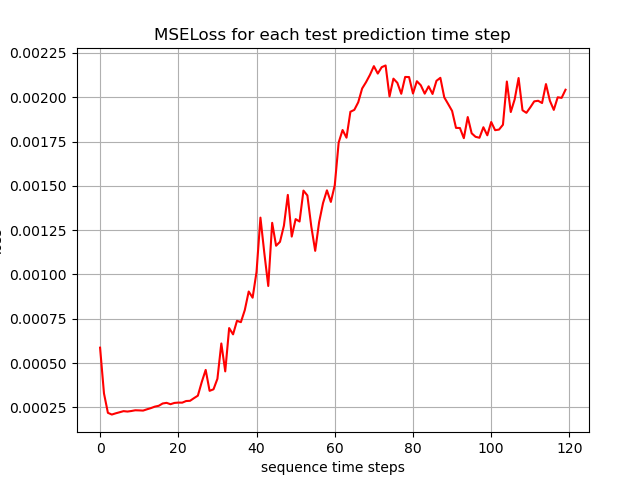
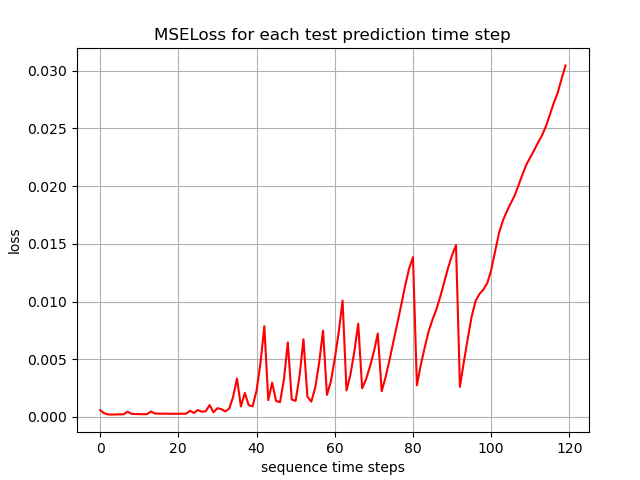
Add: test with dropouts, testing plots

diff --git a/CoreLSTM/test_core_lstm.py b/CoreLSTM/test_core_lstm.py
@@ -4,7 +4,8 @@ from torch import nn
 import numpy as np
 import matplotlib.pyplot as plt
 from numpy import random
-from torch.utils.data import DataLoader, random_split
+from torch.utils.data import DataLoader
+from torch.nn import PairwiseDistance
 
 from tqdm import tqdm
 import sys
@@ -33,6 +34,8 @@ class LSTM_Tester():
         hidden_num,
         layer_norm, 
         timesteps,
+        teacher_forcing_steps,
+        teacher_forcing_dropouts,
         num_dim, 
         num_feat,
         num_independent_feat,
@@ -51,6 +54,11 @@ class LSTM_Tester():
             self.num_feature_types = self.num_dim // 2
         
         self.timesteps = timesteps - 1 # input und label um einen step versetzt
+        self.teacher_forcing_steps = teacher_forcing_steps
+        self.teacher_forcing_dropouts = teacher_forcing_dropouts
+        self.dropout_chance = 0.0
+        self.random_thresholds = random.random_sample((self.teacher_forcing_steps,))
+        
         self.num_obj = num_feat
         self.num_interactions = num_interactions
         self.num_output = num_output
@@ -77,14 +85,70 @@ class LSTM_Tester():
         self.model.eval()
 
 
-    def forward_pass(self, seq, interaction, state, outs, j):
+    def reset_dropout_chance(self):
+        self.dropout_chance = 0.0
+
+
+    def forward_pass1(self, seq, interaction, state, outs, j):
             
         _input = seq[j, :, :].to(self.device)
         out, state = self.model.forward(input_seq=_input, interaction_label=interaction, state=state)
         outs.append(out)
         
         return out, state, outs
+    
+    def forward_pass(self, seq, interaction, state, outs, j):
+            
+        if self.teacher_forcing_dropouts and j < self.teacher_forcing_steps:
+            not_a_dropout = self.random_thresholds[j] > self.dropout_chance
+            self.dropout_chance += 1 / self.teacher_forcing_steps
+
+        if (
+            j < self.teacher_forcing_steps           # -> Ignore dropout functionality
+                and not self.teacher_forcing_dropouts  
+            or j < self.teacher_forcing_steps        # -> Use tf until tf_steps is reached
+                and not_a_dropout                    # and the current time step is not a dropout
+        ):
+            _input = seq[j, :, :]
+            output, state = self.model.forward(_input, interaction, state)
+        else:
+            # concat motor forces and distances to previous output
+            output = self.closed_loop_input(seq, j, outs[-1])
+            # Closed loop lstm forward pass without teacherforcing
+            output, state = self.model.forward(output, interaction, state)
+                    
+        outs.append(output)
         
+        return output, state, outs
+        
+        
+    def closed_loop_input(self, seq, j, output):
+        distances = self.calculate_new_distances(output)
+        motor_column = self.num_dim*self.num_obj
+        motor_force = seq[j, :, motor_column:motor_column+2].squeeze()
+        return torch.cat([output, motor_force, distances], dim=1)
+
+
+    def calculate_new_distances(self, out: torch.Tensor):
+        # shape out: [seq_len=1, batch_size, features]
+        t = out.squeeze()
+        # a1, a2, b = t[:, [0,1]], t[:, [6,7]], t[:, [12,13]]
+        a1, a2, b = (
+            t[:, [2*i + i*(self.num_dim-2), 2*(i+1) + i*(self.num_dim-2)]] 
+            for i in range(self.num_obj)
+        )
+        
+        # abstrahieren für n_obj!=3 mit [a1, a2, b, ...] als list und:
+        # combs = it.combinations(tensors, 2)
+        # dann loop über combs und dist anwenden
+        
+        dist = PairwiseDistance(p=2)
+        dis_a1_a2 = dist(a1, a2)
+        dis_a1_b  = dist(a1, b)
+        dis_b_a2  = dist(b, a2)
+        
+        return torch.stack([dis_a1_a2, dis_a1_b, dis_b_a2], dim = 1) # shape (batchsize x 3)
+    
         
     def evaluate(self, dataloader):
         
@@ -99,6 +163,7 @@ class LSTM_Tester():
         
                 state = self.model.init_hidden(batch_size=batch_size)
                 outs = []
+                self.reset_dropout_chance()
 
                 for j in range(seq_len):
                     _, state, outs = self.forward_pass(seq, interaction, state, outs, j)
@@ -128,6 +193,7 @@ class LSTM_Tester():
                 seq_len, batch_size, num_features = seq.size()
                 state = self.model.init_hidden(batch_size=batch_size)
                 outs = []
+                self.reset_dropout_chance()
                 
                 batch_loss_each_step = np.zeros(self.timesteps)
                 batch_loss_each_step_objects = np.zeros((self.num_obj, self.timesteps))
@@ -218,6 +284,7 @@ class LSTM_Tester():
         
         state = self.model.init_hidden(batch_size=batch_size)
         outs = []
+        self.reset_dropout_chance()
         
         for j in range(seq_len):
             _, state, outs = self.forward_pass(seq, interaction, state, outs, j)

diff --git a/CoreLSTM/test_interactions.py b/CoreLSTM/test_interactions.py
@@ -6,7 +6,7 @@ from torch.utils.data import DataLoader, random_split
 import sys
 pc_dir = "C:\\Users\\TimoLuebbing\\Desktop\\BindingInteractionSequences"
 laptop_dir = "C:\\Users\\timol\\Desktop\\BindingInteractionSequences"
-sys.path.append(pc_dir)      
+sys.path.append(laptop_dir)      
 # Before run: replace ... with current directory path
 
 from Data_Preparation.interaction_dataset import TimeSeriesDataset
@@ -58,6 +58,9 @@ def main(render=True):
     n_independent = 5 # 2 motor + 3 distances 
     n_interactions = len(interactions)
     
+    teacher_forcing_steps = 80
+    teacher_forcing_dropouts = True
+    
     current_best = 'core_lstm_6_3_5_360_MSELoss()_0.0001_0_180_2000_lnorm_tfs200'
     current_best_dropout = 'core_lstm_6_3_5_360_MSELoss()_0.0001_0_180_2000_lnorm_tfs200_tfd'
     current_best_dropout_wd = 'core_lstm_6_3_5_360_MSELoss()_0.0001_0.01_180_2000_lnorm_tfs200_tfd'
@@ -68,10 +71,11 @@ def main(render=True):
     
     tuning0 = 'core_lstm_4_3_5_360_0.001_0.001_HuberLoss()_240_1500_tfs120_tfd'
     tuning1 = 'core_lstm_4_3_5_360_0.0005_0.01_HuberLoss()_240_1500_tfs100_tfd'
+    tuning2 = 'core_lstm_4_3_5_360_0.0005_0.05_HuberLoss()_240_3000_tfs80_tfd'
 
     tuning_train = 'core_lstm_4_3_5_360_HuberLoss()_0.0005_0.01_240_3000_tfs120_tfd_nf_ts121'
 
-    model_name = tuning1
+    model_name = tuning2
     model_save_path = f'CoreLSTM/models/{model_name}.pt'
     model_save_path = f'CoreLSTM/models/tuning/{model_name}.pt'
     
@@ -85,6 +89,8 @@ def main(render=True):
         hidden_num=hidden_num,
         layer_norm=layer_norm,
         timesteps=timesteps,
+        teacher_forcing_steps=teacher_forcing_steps,
+        teacher_forcing_dropouts=teacher_forcing_dropouts,
         num_dim=n_dim,
         num_feat=n_features,
         num_independent_feat=n_independent,
@@ -105,9 +111,9 @@ def main(render=True):
     print(np.sum(obj_losses, axis=None))
     print(np.sum(type_losses, axis=None))
     
-    test_loss_path = f"CoreLSTM/testing_predictions/test_loss/{model_name}"
-    obj_loss_path = f"CoreLSTM/testing_predictions/test_loss/{model_name}"
-    type_loss_path = f"CoreLSTM/testing_predictions/test_loss/{model_name}"
+    test_loss_path = f"CoreLSTM/testing_predictions/test_loss/{model_name}_false_labels"
+    obj_loss_path = f"CoreLSTM/testing_predictions/test_loss/{model_name}_false_labels"
+    type_loss_path = f"CoreLSTM/testing_predictions/test_loss/{model_name}_false_labels"
     tester.plot_losses_steps(losses, test_loss_path)
     tester.plot_losses_objects(obj_losses, obj_loss_path)
     tester.plot_losses_types(type_losses, type_loss_path)

diff --git a/CoreLSTM/train_core_lstm.py b/CoreLSTM/train_core_lstm.py
@@ -68,6 +68,9 @@ class LSTM_Trainer():
         self.loss_function = loss_function
         self.teacher_forcing_steps = teacher_forcing_steps
         self.teacher_forcing_dropouts = teacher_forcing_dropouts
+        self.dropout_chance = 0.0
+        self.random_thresholds = random.random_sample((teacher_forcing_steps,))
+        
                 
         self.optimizer = AdamW(
             params=self.model.parameters(),
@@ -290,14 +293,13 @@ class LSTM_Trainer():
 
         state = self.model.init_hidden(batch_size=batch_size)
         outs = []
-        random_values = random.random_sample((seq_len,))
-        dropout_chance = 0.0
+        self.reset_dropout_chance()
 
         for j in range(seq_len):
             
             if self.teacher_forcing_dropouts:
-                not_a_dropout = random_values[j] > dropout_chance
-                dropout_chance += 1 / self.teacher_forcing_steps
+                not_a_dropout = self.random_thresholds[j] > self.dropout_chance
+                self.dropout_chance += 1 / self.teacher_forcing_steps
 
             if (
                 j < self.teacher_forcing_steps           # -> Ignore dropout functionality
@@ -326,6 +328,10 @@ class LSTM_Trainer():
 
         return outs, single_losses 
 
+    
+    def reset_dropout_chance(self):
+        self.dropout_chance = 0.0
+        
 
     def closed_loop_input(self, seq, j, output):
         distances = self.calculate_new_distances(output)

diff --git a/CoreLSTM/core_lstm.py b/CoreLSTM/core_lstm.py
@@ -81,7 +81,7 @@ class CORE_NET(nn.Module):
 
     def forward(self, input_seq, interaction_label, state=None):
         
-        # interaction_label = (interaction_label + randint(0, 4)) % 4
+        interaction_label = (interaction_label + randint(0, 4)) % 4
         
         # One hot interaction labels
         one_hot_vector = F.one_hot(
